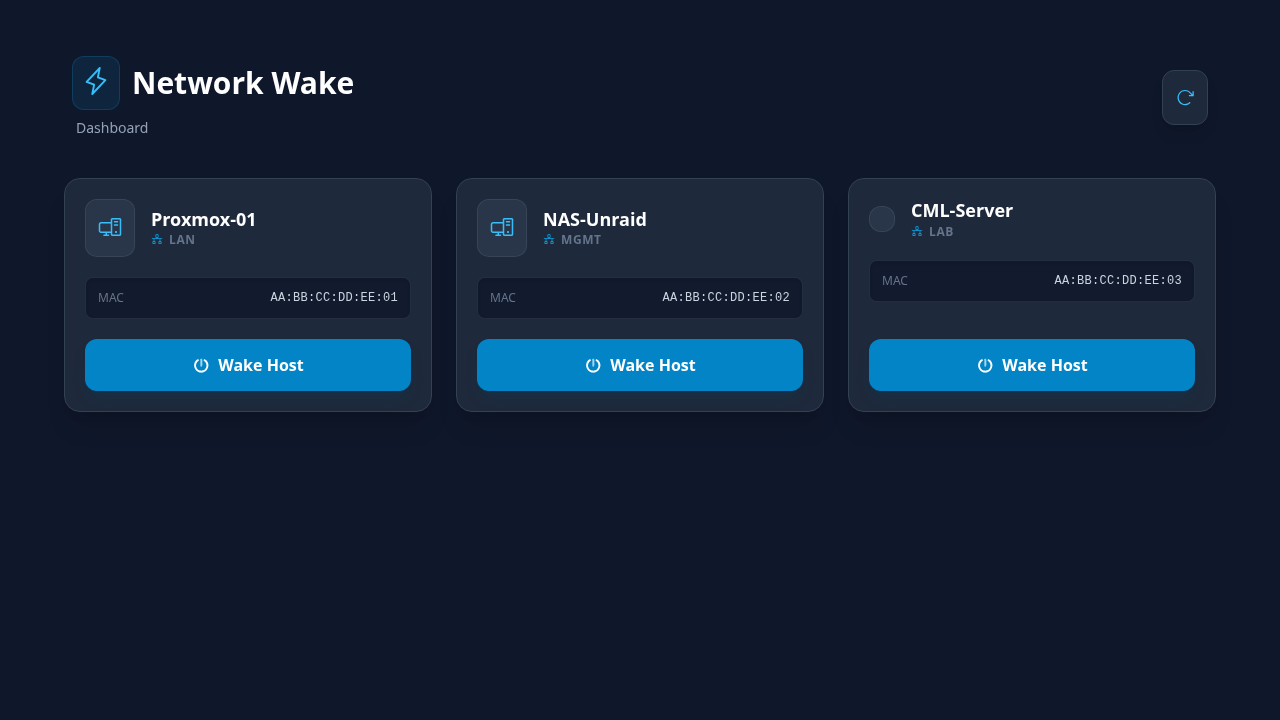
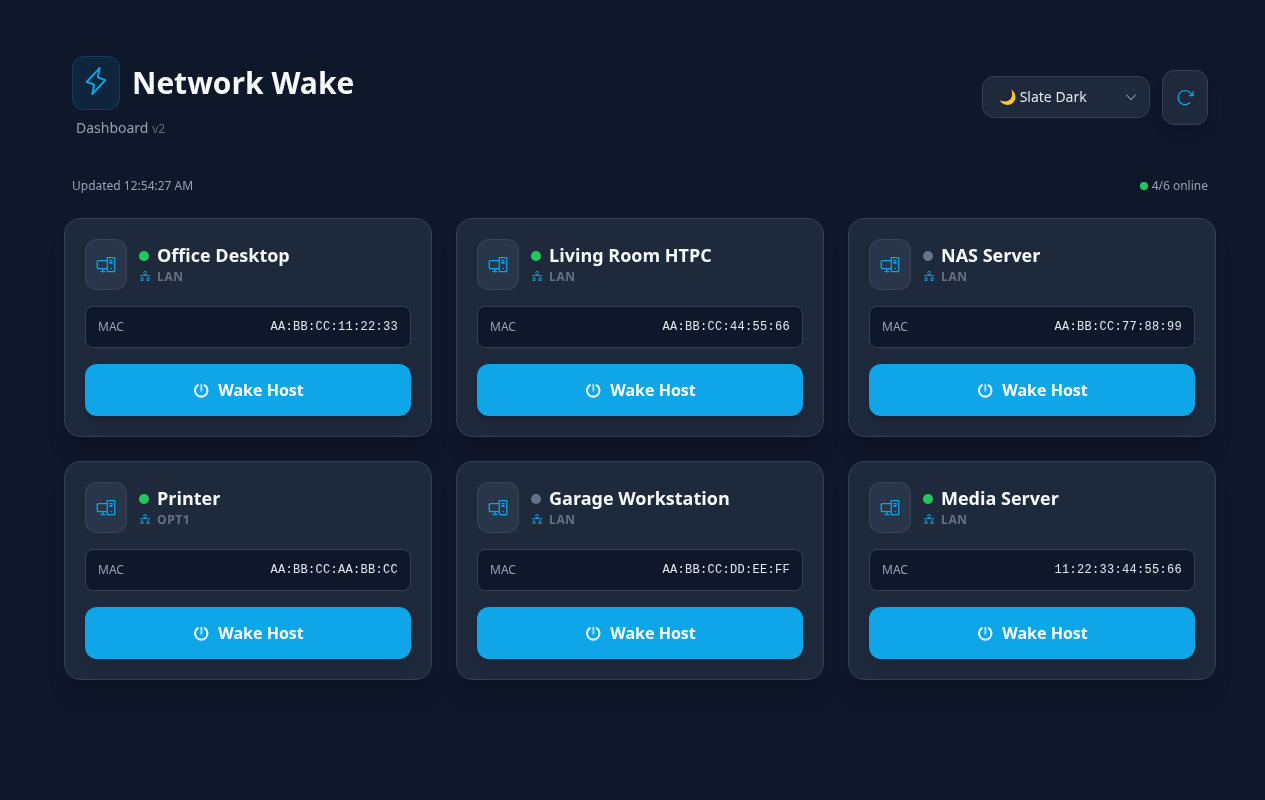
feat: add DEMO_MODE env var, update README screenshot
- DEMO_MODE=true serves 6 mock hosts and realistic status mix (4 online, 2 offline)
- No OPNsense connection needed — makes testing/screenshotting trivial
- Wake endpoint returns success with simulated delay in demo mode
- Updated screenshot showing full v2 UI with status dots and theme selector

diff --git a/server.js b/server.js
@@ -9,6 +9,7 @@ const PORT = process.env.PORT || 3000;
 const OPNSENSE_URL = process.env.OPNSENSE_URL;
 const API_KEY = process.env.OPNSENSE_API_KEY;
 const API_SECRET = process.env.OPNSENSE_API_SECRET;
+const DEMO_MODE = process.env.DEMO_MODE === 'true';
 
 // Parse HOST_IPS env var — maps host descriptions to IPs for status checks
 // Format: '{"My Desktop":"192.168.1.100","NAS":"192.168.1.200"}'
@@ -25,12 +26,58 @@ try {
 app.use(express.json());
 app.use(express.static('public'));
 
-// HTTPS Agent
+// ── Demo Mode: Mock Data ──
+const DEMO_HOSTS = [
+  {
+    uuid: 'demo-uuid-1',
+    descr: 'Office Desktop',
+    mac: 'aa:bb:cc:11:22:33',
+    interface: 'lan',
+    '%interface': 'lan'
+  },
+  {
+    uuid: 'demo-uuid-2',
+    descr: 'Living Room HTPC',
+    mac: 'aa:bb:cc:44:55:66',
+    interface: 'lan',
+    '%interface': 'lan'
+  },
+  {
+    uuid: 'demo-uuid-3',
+    descr: 'NAS Server',
+    mac: 'aa:bb:cc:77:88:99',
+    interface: 'lan',
+    '%interface': 'lan'
+  },
+  {
+    uuid: 'demo-uuid-4',
+    descr: 'Printer',
+    mac: 'aa:bb:cc:aa:bb:cc',
+    interface: 'opt1',
+    '%interface': 'opt1'
+  },
+  {
+    uuid: 'demo-uuid-5',
+    descr: 'Garage Workstation',
+    mac: 'aa:bb:cc:dd:ee:ff',
+    interface: 'lan',
+    '%interface': 'lan'
+  },
+  {
+    uuid: 'demo-uuid-6',
+    descr: 'Media Server',
+    mac: '11:22:33:44:55:66',
+    interface: 'lan',
+    '%interface': 'lan'
+  }
+];
+
+// HTTPS Agent (only needed when not in demo mode)
 const httpsAgent = new https.Agent({
   rejectUnauthorized: process.env.VERIFY_SSL === 'true'
 });
 
-// Axios Client
+// Axios Client (only used when not in demo mode)
 const client = axios.create({
   baseURL: OPNSENSE_URL,
   auth: {
@@ -41,8 +88,12 @@ const client = axios.create({
   headers: { 'Content-Type': 'application/json' }
 });
 
-// API: Get Hosts — returns WOL hosts from OPNsense
+// API: Get Hosts — returns WOL hosts from OPNsense (or demo data)
 app.get('/api/hosts', async (req, res) => {
+  if (DEMO_MODE) {
+    return res.json(DEMO_HOSTS);
+  }
+
   if (!API_KEY || !API_SECRET || !OPNSENSE_URL) {
     return res.status(500).json({ error: 'Missing OPNsense configuration env vars.' });
   }
@@ -64,6 +115,13 @@ app.get('/api/hosts', async (req, res) => {
 // API: Wake Host
 app.post('/api/wake/:uuid', async (req, res) => {
   const { uuid } = req.params;
+
+  if (DEMO_MODE) {
+    // Simulate a brief delay, then return success
+    await new Promise(r => setTimeout(r, 400));
+    return res.json({ status: 'OK', result: 'OK' });
+  }
+
   try {
     const response = await client.post('/api/wol/wol/set', { uuid });
     res.json(response.data);
@@ -73,28 +131,42 @@ app.post('/api/wake/:uuid', async (req, res) => {
   }
 });
 
-// API: Host Status — ping each host to check online/offline
+// API: Host Status — ping each host to check online/offline (or demo data)
 app.get('/api/status', async (req, res) => {
-  const statuses = {};
+  if (DEMO_MODE) {
+    // Return a realistic mix: some online, some offline, one unknown
+    return res.json({
+      'Office Desktop': { online: true },
+      'Living Room HTPC': { online: true },
+      'NAS Server': { online: false },
+      'Printer': { online: true },
+      'Garage Workstation': { online: false },
+      'Media Server': { online: true }
+    });
+  }
 
+  const statuses = {};
   for (const [descr, ip] of Object.entries(HOST_IPS)) {
     try {
-      // Single ping with 1s timeout — fast enough for a dashboard
       execSync(`ping -c 1 -W 1 ${ip}`, { timeout: 2000, stdio: 'pipe' });
       statuses[descr] = { online: true };
     } catch {
       statuses[descr] = { online: false };
     }
   }
-
   res.json(statuses);
 });
 
 app.get('/health', (req, res) => res.send('OK'));
 
 app.listen(PORT, () => {
-  console.log(`OPNsense WOL v2 running on port ${PORT}`);
-  if (Object.keys(HOST_IPS).length > 0) {
-    console.log(`Status checks enabled for ${Object.keys(HOST_IPS).length} host(s)`);
+  if (DEMO_MODE) {
+    console.log(`OPNsense WOL v2 DEMO running on http://localhost:${PORT}`);
+    console.log(`Serving ${DEMO_HOSTS.length} mock hosts — no OPNsense connection needed`);
+  } else {
+    console.log(`OPNsense WOL v2 running on port ${PORT}`);
+    if (Object.keys(HOST_IPS).length > 0) {
+      console.log(`Status checks enabled for ${Object.keys(HOST_IPS).length} host(s)`);
+    }
   }
 });